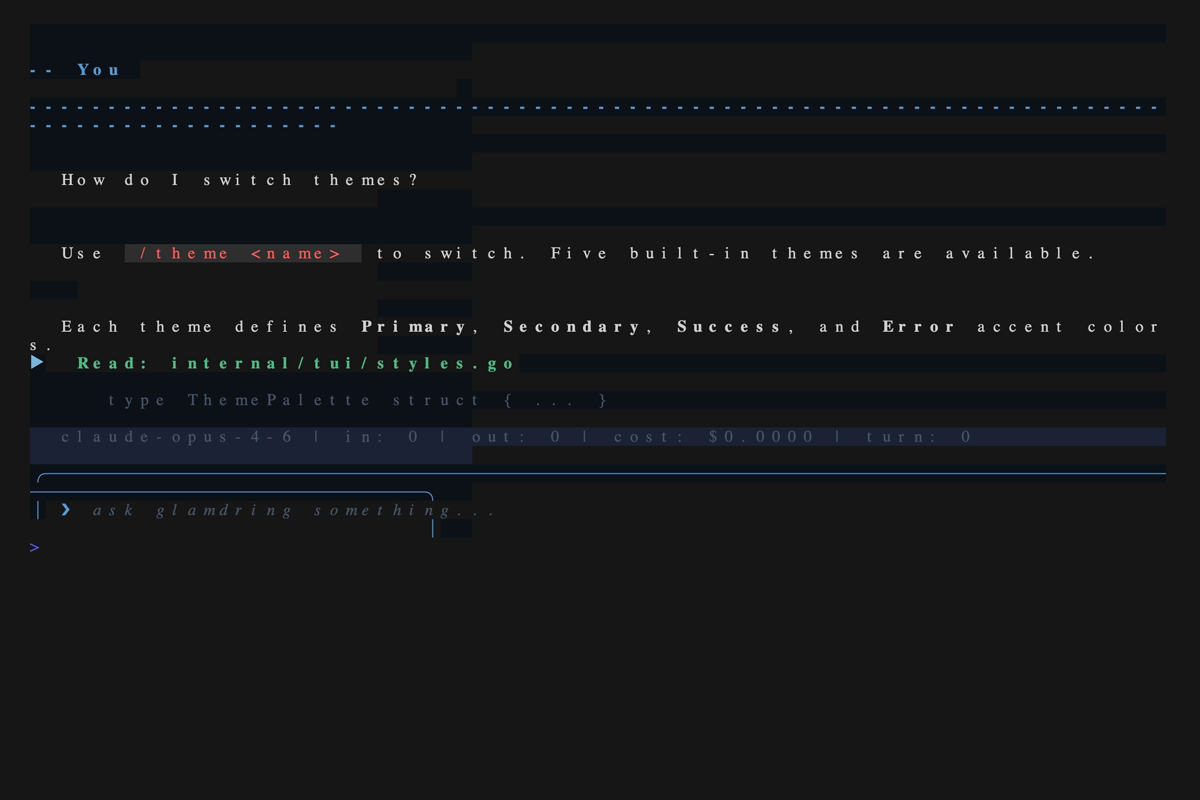
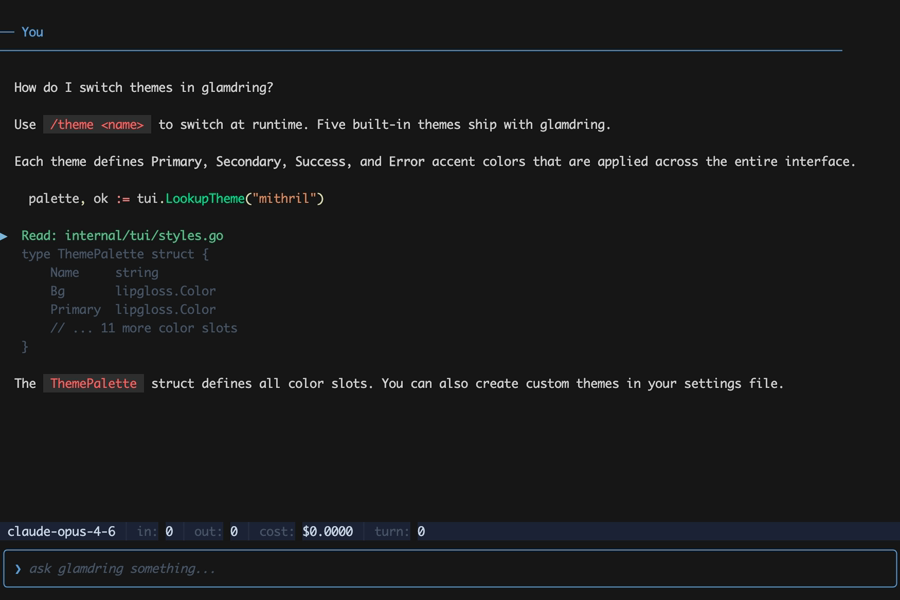
feat: use real TUI for theme screenshots via --demo flag
Replace the fake theme_preview_test.go renderer with a --demo flag
that launches the actual Bubble Tea TUI with pre-populated content.
VHS captures each theme as a separate instance for clean screenshots.

- Add --demo <theme> flag to skip auth and run demo mode
- Add PopulateDemoContent() to pre-fill viewport with sample blocks
- Update VHS tape to use Monaco 12 matching iTerm2 settings
- Remove theme_preview_test.go (no longer needed)

diff --git a/cmd/glamdring/main.go b/cmd/glamdring/main.go
@@ -57,7 +57,14 @@ func main() {
 	model := flag.String("model", "", "Claude model to use (overrides settings)")
 	yolo := flag.Bool("yolo", false, "auto-approve all tool permissions")
 	experimentalTeams := flag.Bool("experimental-teams", false, "enable experimental agent teams support")
+	demoTheme := flag.String("demo", "", "launch with demo content for theme screenshots (theme name or 'glamdring' default)")
 	flag.Parse()
+
+	// Demo mode: launch TUI with sample content, no auth or agent needed.
+	if *demoTheme != "" {
+		runDemo(*demoTheme)
+		return
+	}
 
 	creds, err := auth.Resolve()
 	if err != nil {
@@ -261,6 +268,20 @@ func main() {
 	// Fire SessionEnd hook on clean exit.
 	// Use Background context since the signal context may already be cancelled.
 	hookRunner.Run(context.Background(), hooks.SessionEnd, "", nil)
+}
+
+// runDemo launches the TUI in demo mode with pre-populated content.
+// Used for VHS theme screenshot capture.
+func runDemo(themeName string) {
+	m := tui.New()
+	palette, _ := tui.LookupTheme(themeName)
+	m.SetTheme(palette, false)
+	m.PopulateDemoContent()
+	p := tea.NewProgram(m, tea.WithAltScreen())
+	if _, err := p.Run(); err != nil {
+		fmt.Fprintf(os.Stderr, "error: %v\n", err)
+		os.Exit(1)
+	}
 }
 
 // makeSubagentRunner returns a SubagentRunner that wraps agent.Run. It

diff --git a/internal/tui/model.go b/internal/tui/model.go
@@ -191,6 +191,17 @@ func (m *Model) SetTheme(p ThemePalette, highContrast bool) {
 	m.spinner.Style = lipgloss.NewStyle().Foreground(p.Primary)
 }
 
+// PopulateDemoContent fills the output viewport with representative sample
+// content for theme screenshots. Call after SetTheme if a non-default theme
+// is desired.
+func (m *Model) PopulateDemoContent() {
+	m.output.AppendUserMessage("How do I switch themes in glamdring?")
+	m.output.AppendText("Use `/theme <name>` to switch at runtime. Five built-in themes ship with glamdring.\n\nEach theme defines **Primary**, **Secondary**, **Success**, and **Error** accent colors that are applied across the entire interface.\n\n```go\npalette, ok := tui.LookupTheme(\"mithril\")\n```\n")
+	m.output.AppendToolCall("Read", "internal/tui/styles.go")
+	m.output.AppendToolResult("type ThemePalette struct {\n    Name     string\n    Bg       lipgloss.Color\n    Primary  lipgloss.Color\n    // ... 11 more color slots\n}", false)
+	m.output.AppendText("The `ThemePalette` struct defines all color slots. You can also create custom themes in your settings file.")
+}
+
 // SetMCPManager stores the MCP manager for /mcp command and status bar updates.
 func (m *Model) SetMCPManager(mgr *mcp.Manager) {
 	m.mcpMgr = mgr
